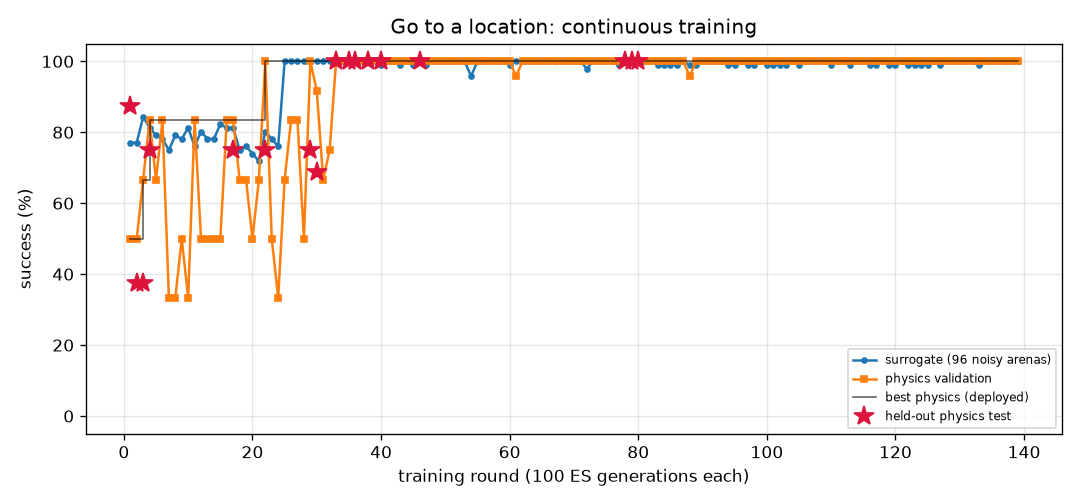
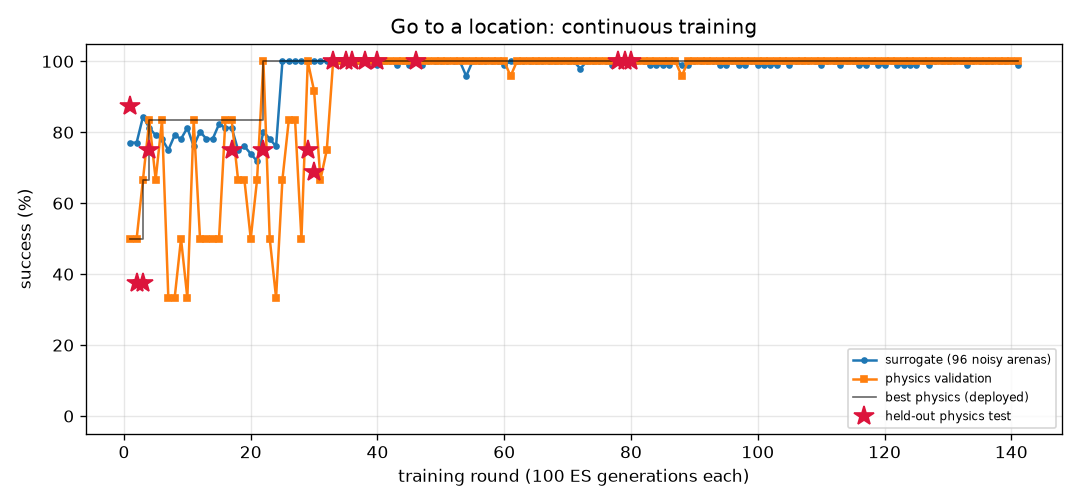
FlyLab: continuous training progress
- walk_forward: optimal, physics val 100% of 24, round 154
- turn: optimal, physics val 100% of 24, round 595
- goto: optimal, physics val 100% of 24, round 141
- odor_seek: optimal, physics val 100% of 24, round 128
- odor_avoid: optimal, physics val 100% of 24, round 576
- light_seek: optimal, physics val 100% of 24, round 325
- light_avoid: optimal, physics val 100% of 24, round 310

diff --git a/projects/09_flylab/training/goto/REPORT.md b/projects/09_flylab/training/goto/REPORT.md
@@ -1,14 +1,14 @@
 # Go to a location (`goto`) — training report
 
-*Auto-generated by `train_brains.py`, last updated 2026-10-21T22:09:00.*
+*Auto-generated by `train_brains.py`, last updated 2026-10-21T23:07:00.*
 
 ![curve](curve.png)
 
 | | |
 |---|---|
-| rounds | 139 |
-| ES generations | 13900 |
-| physics runs | 3222 |
+| rounds | 141 |
+| ES generations | 14100 |
+| physics runs | 3270 |
 | status | **optimal** |
 | best brain | round 80: physics validation **100%** on 24 arenas, surrogate 100% |
 | held-out physics test | **100%** on 32 unseen arenas (95% CI 89%-100%) (errors: [0.36, 0.41, 0.3, 0.45, 0.32, 0.33, 0.33, 0.31, 0.35, 0.36, 0.39, 0.36, 0.28, 0.31, 0.4, 0.39, 0.34, 0.39, 0.3, 0.34, 0.36, 0.36, 0.44, 0.34, 0.3, 0.33, 0.4, 0.33, 0.29, 0.43, 0.43, 0.39]) |
@@ -17,8 +17,6 @@ Physics error per arena: mm from target at the end (< 1.5 and standing still = s
 
 | round | level | gens | sigma | surrogate | physics val | val errors | test | note |
 |---:|---:|---:|---:|---:|---:|---|---:|---|
-| 100 | 3 | 10000 | 0.024 | 99% | 100% | [0.44, 0.39, 0.29, 0.32, 0.29, 0.29, 0.44, 0.31, 0.32, 0.3, 0.28, 0.32, 0.36, 0.28, 0.34, 0.35, 0.4, 0.34, 0.29, 0.35, 0.32, 0.3, 0.39, 0.3] |  | restart from best |
-| 101 | 3 | 10100 | 0.024 | 99% | 100% | [0.64, 0.54, 0.42, 0.49, 0.43, 0.44, 0.63, 0.48, 0.5, 0.44, 0.43, 0.49, 0.54, 0.4, 0.44, 0.49, 0.58, 0.49, 0.44, 0.54, 0.46, 0.46, 0.56, 0.48] |  |  |
 | 102 | 3 | 10200 | 0.025 | 99% | 100% | [0.52, 0.44, 0.4, 0.37, 0.31, 0.35, 0.52, 0.36, 0.41, 0.34, 0.31, 0.37, 0.44, 0.3, 0.34, 0.37, 0.47, 0.37, 0.34, 0.43, 0.35, 0.35, 0.45, 0.35] |  |  |
 | 103 | 3 | 10300 | 0.025 | 99% | 100% | [0.47, 0.45, 0.48, 0.39, 0.34, 0.36, 0.46, 0.43, 0.45, 0.36, 0.34, 0.4, 0.43, 0.36, 0.46, 0.41, 0.49, 0.36, 0.33, 0.43, 0.38, 0.35, 0.49, 0.38] |  |  |
 | 104 | 3 | 10400 | 0.025 | 100% | 100% | [0.61, 0.62, 0.5, 0.56, 0.49, 0.56, 0.56, 0.59, 0.62, 0.48, 0.5, 0.53, 0.62, 0.55, 0.61, 0.53, 0.63, 0.54, 0.47, 0.61, 0.53, 0.47, 0.63, 0.6] |  | restart from best |
@@ -57,3 +55,5 @@ Physics error per arena: mm from target at the end (< 1.5 and standing still = s
 | 137 | 3 | 13700 | 0.024 | 100% | 100% | [0.49, 0.53, 0.36, 0.41, 0.38, 0.39, 0.47, 0.44, 0.45, 0.39, 0.37, 0.4, 0.45, 0.39, 0.47, 0.44, 0.48, 0.4, 0.36, 0.44, 0.41, 0.38, 0.48, 0.41] |  |  |
 | 138 | 3 | 13800 | 0.024 | 100% | 100% | [0.5, 0.54, 0.49, 0.45, 0.41, 0.45, 0.48, 0.51, 0.47, 0.4, 0.4, 0.42, 0.49, 0.44, 0.49, 0.47, 0.51, 0.42, 0.39, 0.45, 0.46, 0.39, 0.5, 0.43] |  |  |
 | 139 | 3 | 13900 | 0.024 | 100% | 100% | [0.49, 0.49, 0.51, 0.42, 0.37, 0.42, 0.44, 0.46, 0.44, 0.35, 0.37, 0.42, 0.48, 0.4, 0.45, 0.43, 0.48, 0.41, 0.35, 0.44, 0.42, 0.36, 0.49, 0.4] |  |  |
+| 140 | 3 | 14000 | 0.024 | 100% | 100% | [0.52, 0.52, 0.51, 0.44, 0.4, 0.44, 0.45, 0.52, 0.44, 0.37, 0.4, 0.42, 0.51, 0.42, 0.43, 0.46, 0.54, 0.46, 0.4, 0.49, 0.44, 0.39, 0.52, 0.42] |  | restart from best |
+| 141 | 3 | 14100 | 0.024 | 99% | 100% | [0.49, 0.51, 0.39, 0.45, 0.36, 0.43, 0.44, 0.51, 0.47, 0.37, 0.38, 0.43, 0.51, 0.41, 0.45, 0.41, 0.52, 0.43, 0.36, 0.46, 0.42, 0.36, 0.52, 0.46] |  |  |

diff --git a/projects/09_flylab/training/walk_forward/REPORT.md b/projects/09_flylab/training/walk_forward/REPORT.md
@@ -1,14 +1,14 @@
 # Walk forward (`walk_forward`) — training report
 
-*Auto-generated by `train_brains.py`, last updated 2026-10-20T22:35:08.*
+*Auto-generated by `train_brains.py`, last updated 2026-10-21T23:21:47.*
 
 ![curve](curve.png)
 
 | | |
 |---|---|
-| rounds | 152 |
-| ES generations | 15200 |
-| physics runs | 3662 |
+| rounds | 154 |
+| ES generations | 15400 |
+| physics runs | 3710 |
 | status | **optimal** |
 | best brain | round 116: physics validation **100%** on 24 arenas, surrogate 100% |
 | held-out physics test | **100%** on 32 unseen arenas (95% CI 89%-100%) (errors: [0.13, 0.16, 0.19, 0.16, 0.15, 0.2, 0.17, 0.18, 0.17, 0.19, 0.2, 0.14, 0.17, 0.19, 0.2, 0.2, 0.13, 0.19, 0.16, 0.2, 0.2, 0.16, 0.17, 0.2, 0.13, 0.15, 0.18, 0.14, 0.16, 0.15, 0.19, 0.12]) |
@@ -17,8 +17,6 @@ Physics error per arena: mm from target at the end (< 1.5 and standing still = s
 
 | round | level | gens | sigma | surrogate | physics val | val errors | test | note |
 |---:|---:|---:|---:|---:|---:|---|---:|---|
-| 113 | 3 | 11300 | 0.024 | 100% | 96% | [0.14, 0.21, 0.06, 0.14, 0.21, 0.12, 0.21, 0.17, 0.21, 0.22, 0.18, 0.2, 0.13, 0.1, 0.18, 0.21, 0.19, 0.21, 0.19, 0.23, 0.22, 0.22, 0.24, 0.12] |  |  |
-| 114 | 3 | 11400 | 0.024 | 100% | 100% | [0.18, 0.22, 0.15, 0.16, 0.22, 0.17, 0.21, 0.12, 0.2, 0.15, 0.1, 0.15, 0.1, 0.11, 0.16, 0.12, 0.18, 0.2, 0.12, 0.18, 0.2, 0.14, 0.18, 0.11] |  | restart from best |
 | 115 | 3 | 11500 | 0.024 | 100% | 100% | [0.09, 0.12, 0.06, 0.08, 0.13, 0.06, 0.13, 0.08, 0.13, 0.14, 0.04, 0.14, 0.1, 0.08, 0.12, 0.11, 0.1, 0.12, 0.07, 0.16, 0.1, 0.14, 0.16, 0.04] |  |  |
 | 116 | 3 | 11600 | 0.024 | 100% | 100% | [0.2, 0.2, 0.15, 0.2, 0.2, 0.13, 0.2, 0.16, 0.2, 0.19, 0.13, 0.17, 0.17, 0.14, 0.2, 0.18, 0.19, 0.2, 0.17, 0.2, 0.18, 0.19, 0.17, 0.17] | 100% | new best |
 | 117 | 3 | 11700 | 0.024 | 100% | 83% | [0.1, 0.14, 0.03, 0.09, 0.14, 0.79, 0.14, 0.04, 0.14, 0.13, 0.16, 0.06, 0.38, 2.39, 0.13, 0.1, 0.05, 0.14, 0.03, 0.13, 0.07, 0.08, 0.08, 0.08] |  |  |
@@ -57,3 +55,5 @@ Physics error per arena: mm from target at the end (< 1.5 and standing still = s
 | 150 | 3 | 15000 | 0.024 | 100% | 92% | [0.09, 0.11, 0.08, 0.1, 0.1, 0.07, 0.13, 0.08, 0.09, 0.12, 0.07, 0.12, 0.07, 0.07, 0.06, 0.08, 0.14, 0.1, 0.08, 0.05, 0.08, 0.13, 0.11, 0.06] |  |  |
 | 151 | 3 | 15100 | 0.024 | 100% | 100% | [0.28, 0.27, 0.28, 0.28, 0.27, 0.27, 0.27, 0.28, 0.27, 0.26, 0.28, 0.23, 0.28, 0.28, 0.27, 0.24, 0.28, 0.27, 0.28, 0.28, 0.29, 0.26, 0.22, 0.28] |  |  |
 | 152 | 3 | 15200 | 0.024 | 100% | 88% | [0.13, 0.16, 0.08, 0.13, 0.16, 0.33, 0.09, 0.1, 0.16, 0.15, 0.08, 0.25, 0.07, 0.08, 0.08, 0.22, 0.12, 0.1, 0.14, 0.14, 0.24, 0.15, 0.15, 0.06] |  | restart from best |
+| 153 | 3 | 15300 | 0.024 | 100% | 100% | [0.24, 0.22, 0.24, 0.23, 0.22, 0.24, 0.21, 0.24, 0.22, 0.2, 0.21, 0.18, 0.24, 0.24, 0.23, 0.2, 0.24, 0.22, 0.24, 0.23, 0.25, 0.2, 0.18, 0.24] |  |  |
+| 154 | 3 | 15400 | 0.024 | 99% | 88% | [0.16, 0.21, 0.65, 0.16, 0.2, 0.03, 0.21, 0.12, 0.21, 0.2, 0.53, 0.19, 0.12, 0.54, 0.18, 0.19, 0.15, 0.2, 0.13, 0.19, 0.13, 0.2, 0.18, 0.11] |  |  |

diff --git a/projects/09_flylab/training/light_seek/REPORT.md b/projects/09_flylab/training/light_seek/REPORT.md
@@ -1,14 +1,14 @@
 # Walk toward light (`light_seek`) — training report
 
-*Auto-generated by `train_brains.py`, last updated 2026-10-21T22:09:49.*
+*Auto-generated by `train_brains.py`, last updated 2026-10-21T22:46:49.*
 
 ![curve](curve.png)
 
 | | |
 |---|---|
-| rounds | 324 |
-| ES generations | 32400 |
-| physics runs | 4624 |
+| rounds | 325 |
+| ES generations | 32500 |
+| physics runs | 4648 |
 | status | **optimal** |
 | best brain | round 295: physics validation **100%** on 24 arenas, surrogate 100% |
 | held-out physics test | **100%** on 32 unseen arenas (95% CI 89%-100%) (errors: [0.58, 0.62, 0.61, 0.63, 0.65, 0.65, 0.73, 0.55, 0.64, 0.59, 0.59, 0.58, 0.69, 0.61, 0.59, 0.6, 0.6, 0.63, 0.59, 0.64, 0.61, 1.11, 0.62, 0.58, 0.58, 0.58, 0.67, 0.63, 0.58, 0.66, 0.67, 0.59]) |
@@ -17,7 +17,6 @@ Physics error per arena: mm from target at the end (< 1.5 and standing still = s
 
 | round | level | gens | sigma | surrogate | physics val | val errors | test | note |
 |---:|---:|---:|---:|---:|---:|---|---:|---|
-| 285 | 3 | 28500 | 0.024 | 100% | 96% | [0.67, 0.5, 0.52, 1.81, 0.55, 0.52, 0.49, 0.49, 0.53, 0.5, 0.63, 0.52, 0.88, 0.49, 0.53, 0.5, 0.51, 0.5, 0.55, 0.49, 0.49, 0.51, 0.5, 0.92] |  | restart from best |
 | 286 | 3 | 28600 | 0.024 | 100% | 100% | [0.54, 0.48, 0.58, 0.58, 0.5, 0.48, 0.49, 0.69, 0.52, 0.55, 0.48, 0.54, 0.51, 0.52, 0.57, 0.49, 0.57, 0.56, 0.49, 0.6, 0.67, 0.81, 0.5, 0.54] |  |  |
 | 287 | 3 | 28700 | 0.024 | 100% | 100% | [0.59, 0.53, 0.51, 0.55, 0.51, 0.48, 0.54, 0.61, 0.5, 0.51, 0.52, 0.49, 0.5, 0.5, 0.6, 0.49, 0.51, 0.5, 0.52, 0.5, 0.47, 0.5, 0.49, 0.52] |  |  |
 | 288 | 3 | 28800 | 0.024 | 100% | 100% | [0.45, 0.58, 0.46, 0.45, 0.46, 0.58, 0.62, 0.46, 0.56, 0.52, 0.55, 0.45, 0.49, 0.48, 0.46, 0.51, 0.46, 0.48, 0.52, 0.48, 0.45, 0.85, 0.57, 0.63] |  |  |
@@ -57,3 +56,4 @@ Physics error per arena: mm from target at the end (< 1.5 and standing still = s
 | 322 | 3 | 32200 | 0.024 | 100% | 100% | [0.71, 0.63, 0.65, 0.57, 0.6, 0.59, 0.53, 0.57, 0.58, 0.85, 0.62, 0.52, 0.58, 0.58, 0.54, 0.57, 0.57, 0.51, 0.63, 0.96, 0.67, 1.15, 0.54, 0.68] |  |  |
 | 323 | 3 | 32300 | 0.024 | 100% | 96% | [0.58, 0.62, 0.54, 0.58, 0.48, 2.5, 0.56, 0.47, 0.6, 0.63, 0.59, 0.57, 0.49, 0.53, 1.09, 0.9, 0.52, 0.59, 0.61, 0.62, 0.63, 0.49, 0.47, 0.63] |  | restart from best |
 | 324 | 3 | 32400 | 0.024 | 100% | 100% | [0.57, 0.5, 0.63, 0.53, 0.62, 0.55, 0.69, 0.59, 0.67, 0.62, 0.96, 0.54, 0.57, 0.57, 0.57, 0.51, 0.55, 0.58, 0.97, 0.63, 0.57, 1.42, 0.64, 0.6] |  |  |
+| 325 | 3 | 32500 | 0.024 | 100% | 100% | [0.68, 0.6, 0.58, 0.58, 0.59, 0.67, 0.62, 0.57, 0.71, 0.54, 0.72, 0.6, 0.67, 0.81, 0.65, 0.71, 0.64, 0.71, 0.61, 0.68, 0.63, 0.74, 0.58, 0.93] |  |  |

diff --git a/projects/09_flylab/training/TRAINING.md b/projects/09_flylab/training/TRAINING.md
@@ -1,15 +1,15 @@
 # FlyLab brains — continuous training log
 
-*Auto-generated by `train_brains.py`, last updated 2026-10-21T22:09:49.*
+*Auto-generated by `train_brains.py`, last updated 2026-10-21T23:21:47.*
 
 Every skill has its own brain and its own training process: surrogate ES rounds, physics validation in MuJoCo, keep-the-best selection, and a held-out physics test that is never used for selection. See each skill's report for its full round-by-round history. Mastery is progressive: passing a level (100% physics validation, >=95% surrogate) doubles the validation and test arena sets; a brain is **optimal** once it holds up at level 3 (>=95% of 24 validation arenas) AND scores >=90% on the 32 held-out test arenas. Test columns show 95% Wilson confidence intervals.
 
 | skill | rounds | ES generations | physics runs | surrogate | physics val | **physics test** | status |
 |---|---:|---:|---:|---:|---:|---:|---|
-| [Walk forward](walk_forward/REPORT.md) | 152 | 15200 | 3662 | 100% | 100% of 24 | 100% of 32 (CI 89-100%) | **optimal** |
+| [Walk forward](walk_forward/REPORT.md) | 154 | 15400 | 3710 | 100% | 100% of 24 | 100% of 32 (CI 89-100%) | **optimal** |
 | [Turn in place](turn/REPORT.md) | 595 | 59500 | 14526 | 100% | 100% of 24 | 97% of 32 (CI 84-99%) | **optimal** |
-| [Go to a location](goto/REPORT.md) | 139 | 13900 | 3222 | 100% | 100% of 24 | 100% of 32 (CI 89-100%) | **optimal** |
+| [Go to a location](goto/REPORT.md) | 141 | 14100 | 3270 | 100% | 100% of 24 | 100% of 32 (CI 89-100%) | **optimal** |
 | [Find food by smell](odor_seek/REPORT.md) | 128 | 12800 | 2438 | 100% | 100% of 24 | 100% of 32 (CI 89-100%) | **optimal** |
 | [Escape a bad smell](odor_avoid/REPORT.md) | 576 | 57600 | 11130 | 97% | 100% of 24 | 97% of 32 (CI 84-99%) | **optimal** |
-| [Walk toward light](light_seek/REPORT.md) | 324 | 32400 | 4624 | 100% | 100% of 24 | 100% of 32 (CI 89-100%) | **optimal** |
+| [Walk toward light](light_seek/REPORT.md) | 325 | 32500 | 4648 | 100% | 100% of 24 | 100% of 32 (CI 89-100%) | **optimal** |
 | [Hide from light](light_avoid/REPORT.md) | 310 | 31000 | 7712 | 100% | 100% of 24 | 100% of 32 (CI 89-100%) | **optimal** |
